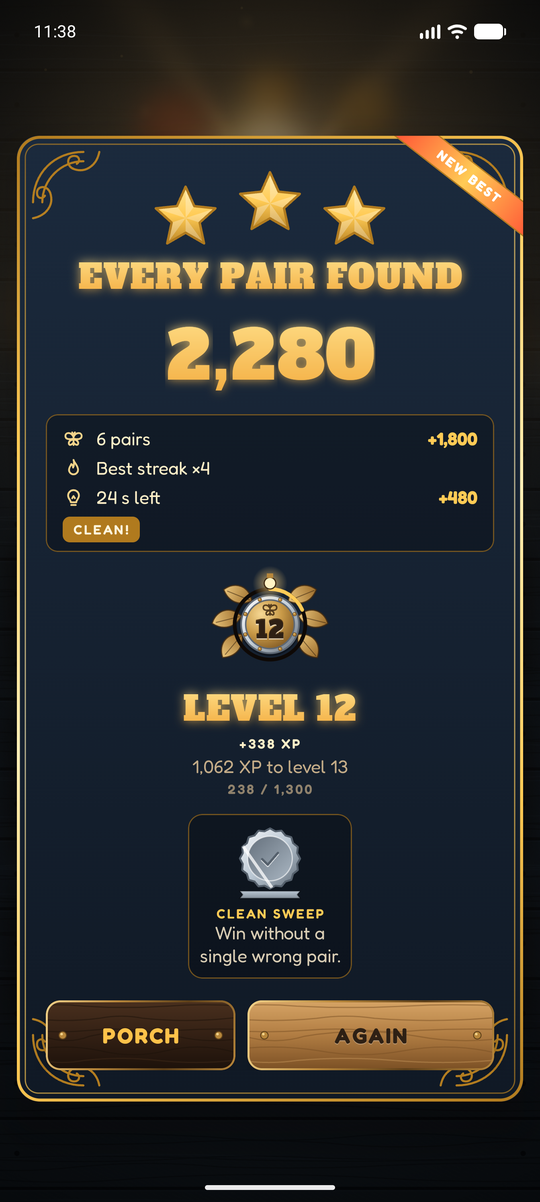
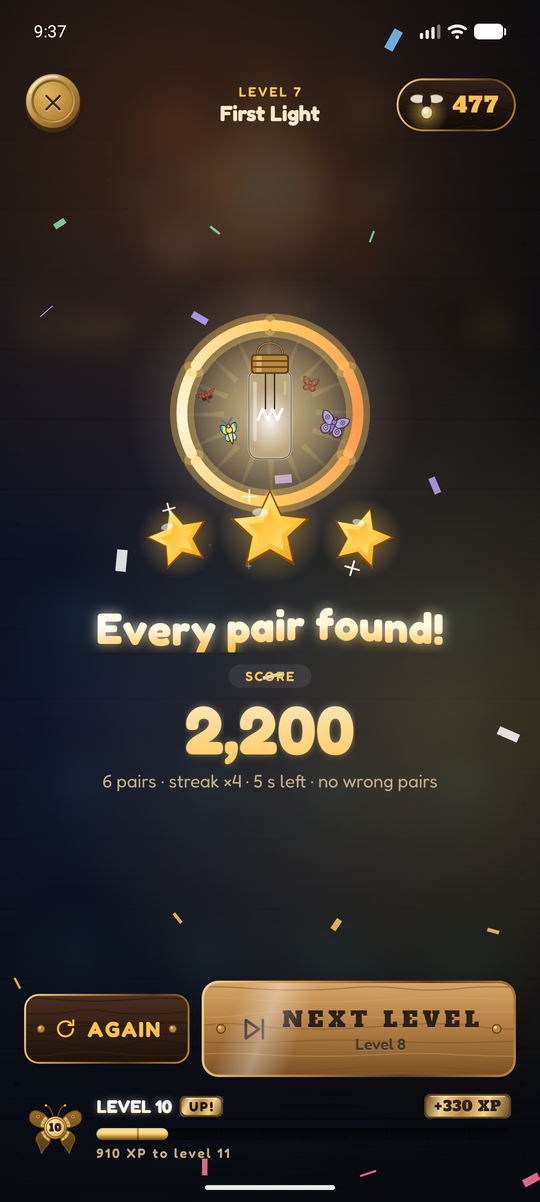
README: fresh screenshots of the lobby, map, results, Claim, boosts and the Porch shop

diff --git a/README.md b/README.md
@@ -39,32 +39,46 @@ Pick a lead moth before each round. Each one bends the rules its own way.
 
 <table>
   <tr>
-    <td align="center" width="20%"><img src="docs/screens/1-home.png" alt="The lobby: the level emblem with its XP ring, a lit mason jar with moths resting around it, a big oak sign reading Play, and four menu tiles" width="100%"></td>
+    <td align="center" width="20%"><img src="docs/screens/1-home.png" alt="The lobby: the level emblem with its XP bar, the Fireflies counter, a lit mason jar with moths resting around it, a big oak PLAY sign with the lead moth, and four menu tiles" width="100%"></td>
     <td align="center" width="20%"><img src="docs/screens/2-peek.png" alt="The opening peek: every card face up with a warm rim, and REMEMBER with a big 2 under the bulb in its brass works" width="100%"></td>
     <td align="center" width="20%"><img src="docs/screens/3-streak.png" alt="Overdrive: found moths circle the bulb, the score reads 1,400 and the streak plate says OVERDRIVE ×4" width="100%"></td>
     <td align="center" width="20%"><img src="docs/screens/5-low.png" alt="The last seconds: the bulb is red and smoking, 0.2 seconds left in red under it, and the last cards washed red" width="100%"></td>
-    <td align="center" width="20%"><img src="docs/screens/4-result.png" alt="The scorecard after a lost round: the headline cooled to ember, 0 of 6 pairs, and the level emblem at its new level 10 with wings and a lit bulb" width="100%"></td>
+    <td align="center" width="20%"><img src="docs/screens/4-result.png" alt="The scorecard after a win: three stars under the lit jar, Every pair found!, a score of 2,200, one line reading 6 pairs, streak ×4, 5 s left, no wrong pairs, a big Next level sign, and a slim XP bar showing level 10" width="100%"></td>
   </tr>
   <tr>
     <td align="center"><sub><b>The lobby</b><br>Tap the jar for the light</sub></td>
     <td align="center"><sub><b>The peek</b><br>Remember, 2, 1</sub></td>
     <td align="center"><sub><b>Overdrive</b><br>The light turns gold</sub></td>
     <td align="center"><sub><b>Last seconds</b><br>Red, smoke, flicker</sub></td>
-    <td align="center"><sub><b>Scorecard</b><br>Built line by line</sub></td>
+    <td align="center"><sub><b>Scorecard</b><br>Score, one line, next</sub></td>
   </tr>
   <tr>
-    <td align="center"><img src="docs/screens/6-levels.png" alt="The level map: chapter 5, the last porch, a plum sky turning gold over a house with its lamp blazing, brass coins 42 to 50 along a copper route with moths and a lantern, and a card below for boss level 50, Last Light: 24 cards, 27 s, Wanderer, Shadow, Lookalikes" width="100%"></td>
+    <td align="center"><img src="docs/screens/6-levels.png" alt="The level map: chapter 1, the porch, with the story line Luna wakes under the porch lamp, brass coins 1 to 10 along a copper route past a lamp, a cat in a lit window, an open door and a moonlit porthole, and a card below for level 7, a breather" width="100%"></td>
     <td align="center"><img src="docs/screens/9-daily.png" alt="Daily porch: a calendar leaf, the week as 3D coins with their stars, your streak and best, your best days, and a big PLAY TODAY sign" width="100%"></td>
     <td align="center"><img src="docs/screens/7-moths.png" alt="Lead moths: each moth beating its wings in a glass jar on velvet, with its strengths as pips" width="100%"></td>
     <td align="center"><img src="docs/screens/8-badges.png" alt="Badges: seventeen medals, each with its own mark, in bronze, silver and gold with tier ribbons; the ones not yet earned are dark outlines" width="100%"></td>
     <td align="center"><img src="docs/screens/10-settings.png" alt="Settings: a walnut switchboard with four lever switches and Replay the tutorial" width="100%"></td>
   </tr>
   <tr>
-    <td align="center"><sub><b>Fifty levels</b><br>Five chapters, one map</sub></td>
+    <td align="center"><sub><b>Fifty levels</b><br>Luna's way home</sub></td>
     <td align="center"><sub><b>Daily porch</b><br>One scored try a day</sub></td>
     <td align="center"><sub><b>Lead moths</b><br>Wings beating in jars</sub></td>
     <td align="center"><sub><b>Badges</b><br>Seventeen medals</sub></td>
     <td align="center"><sub><b>Settings</b><br>Four switches</sub></td>
+  </tr>
+  <tr>
+    <td align="center"><img src="docs/screens/11-boosts.png" alt="The level-start sheet for level 7: BOOSTS FOR THIS ROUND with two walnut tiles, +10 s bulb lit and lifted with a gold border reading IN THIS ROUND, and Longer peek reading TAP TO ADD, the balance after it, and a PLAY sign" width="100%"></td>
+    <td align="center"><img src="docs/screens/12-claim.png" alt="The Claim moment: Fireflies caught! over a glowing firefly with rays, +16 Fireflies, a Claim ×2 sign with a film icon and Watch a short ad, 2 left today, and a Claim sign" width="100%"></td>
+    <td align="center"><img src="docs/screens/13-shop.png" alt="The Porch shop's Boosts tab: brass medallions for +10 s bulb, Longer peek, Second look, Light a pair and Relight, each with a glowing price, and a note that a boosted round earns two stars at most" width="100%"></td>
+    <td align="center"><img src="docs/screens/14-looks.png" alt="The Porch shop's Looks tab: card backs on plum velvet, some owned, one worn, others priced at 300 and 400 Fireflies, and the seasonal Harvest back marked in season" width="100%"></td>
+    <td align="center"><img src="docs/screens/15-fireflies.png" alt="The Porch shop's Fireflies tab: a jar offering +10 Fireflies free for a short ad, Fireflies packs from Handful to Porchful behind Ask a grown-up to open, and what is earned by playing" width="100%"></td>
+  </tr>
+  <tr>
+    <td align="center"><sub><b>Boosts</b><br>Tap to light one</sub></td>
+    <td align="center"><sub><b>Claim</b><br>Or ×2 for an ad</sub></td>
+    <td align="center"><sub><b>Porch shop</b><br>Boosts</sub></td>
+    <td align="center"><sub><b>Porch shop</b><br>Looks</sub></td>
+    <td align="center"><sub><b>Porch shop</b><br>Fireflies</sub></td>
   </tr>
 </table>
 
